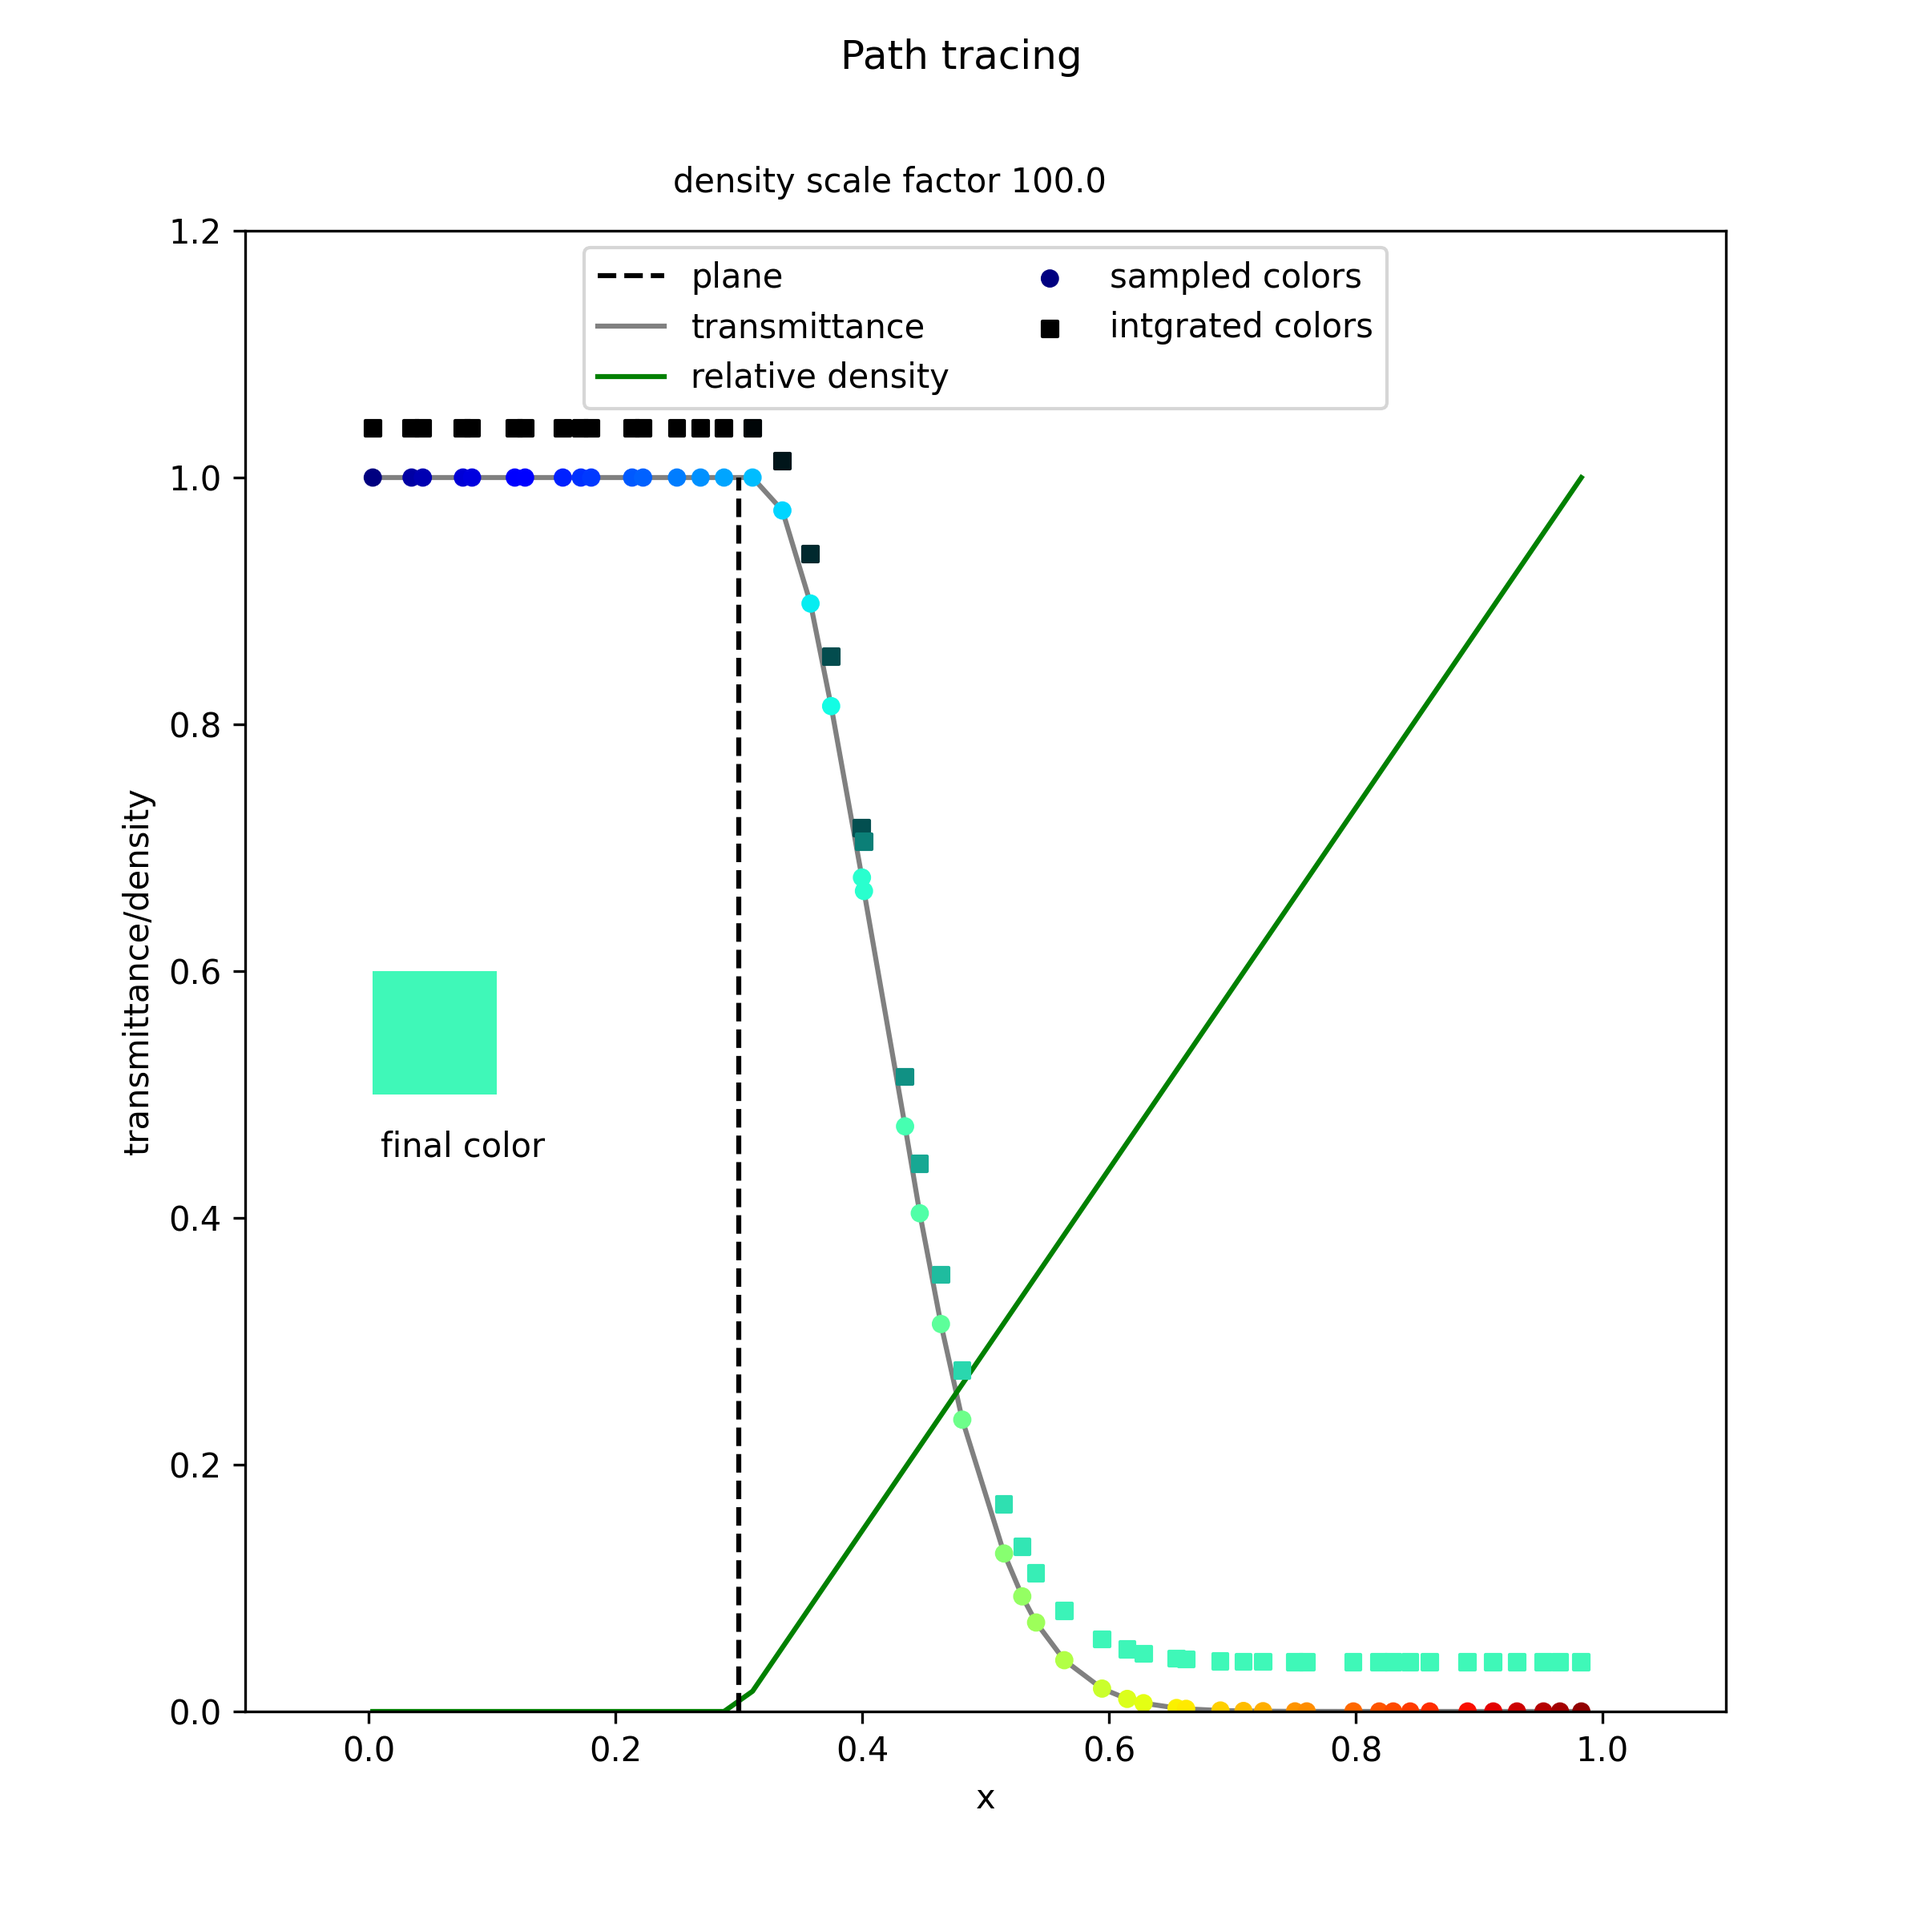
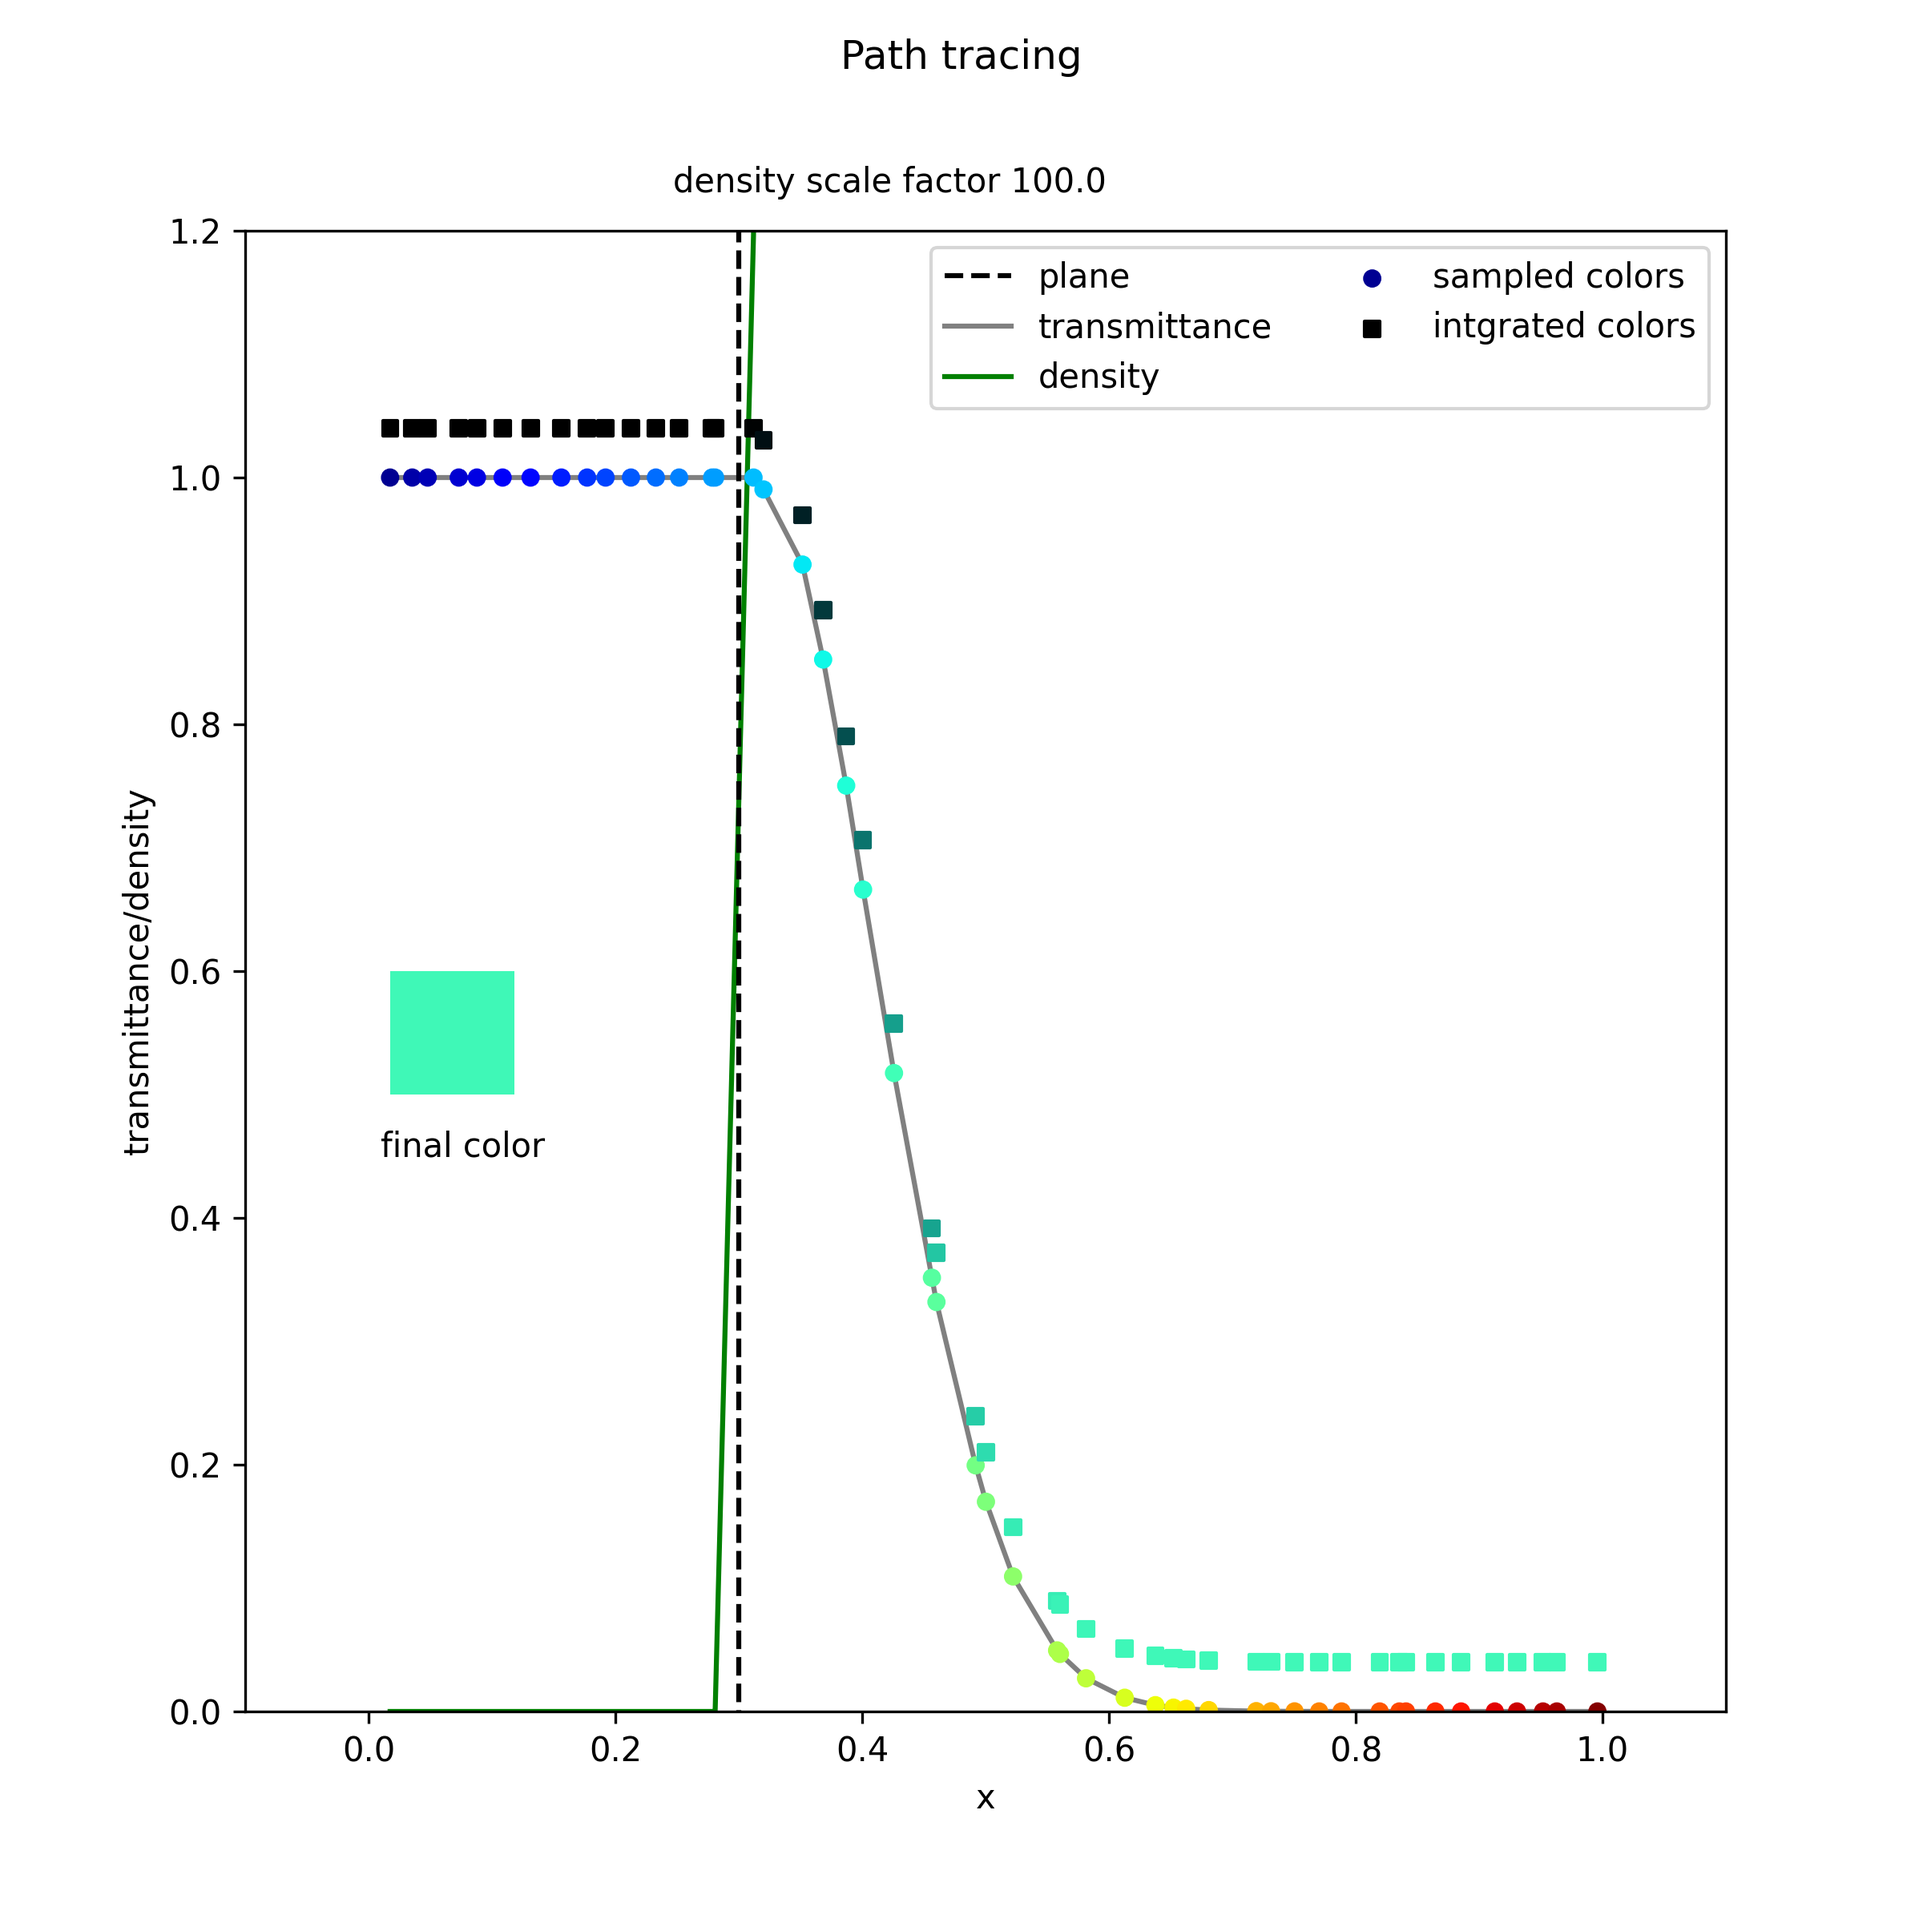
integrate_paths now takes a T+1 ts parameter

diff --git a/torchngp/radiance.py b/torchngp/radiance.py
@@ -18,7 +18,6 @@ def integrate_path(
     color: torch.Tensor,
     sigma: torch.Tensor,
     ts: torch.Tensor,
-    tfar: torch.Tensor,
     initial_transmittance: Union[torch.Tensor, float] = 1.0,
 ) -> tuple[torch.Tensor, torch.Tensor, torch.Tensor]:
     """Integrates the color integral for multiple rays.
@@ -31,8 +30,8 @@ def integrate_path(
     Params:
         color: (T,N,...,C) color samples C for (N,...) rays at steps (T,).
         sigma: (T,N,...,1) volume density for each ray (N,...) and step (T,).
-        ts: (T,N,...,1) parametric ray step parameters
-        tfar: (N,...,1) ray end values
+        ts: (T+1,N,...,1) parametric ray time step values. We need one more than
+            actual samples to be computed. Usually this is set to ray tfar.
         initial_transmittance: (N,...,1) optional initial transmittance values.
             Defaults to 1.0 if not specified.
 
@@ -48,11 +47,13 @@ def integrate_path(
     """
 
     # delta[i] is defined as the segment lengths between ts[i+1] and ts[i]
-    delta = ts[1:] - ts[:-1]  # (T-1,N,...,1)
-    delta = torch.cat((delta, tfar.unsqueeze(0)), 0)  # (T,N,...,1)
+    delta = ts[1:] - ts[:-1]  # (T+1,N,...,1) -> (T,N,...,1)
 
     # Alpha values (T,N,...,1)
-    sigma_mul_delta = sigma * delta
+    # Eps is necessary because in testing sigma is often inf and if delta
+    # is zero then 0.0*float('inf')=nan
+    eps = torch.finfo(delta.dtype).eps
+    sigma_mul_delta = sigma * (delta + eps)
     sample_alpha = 1.0 - (-sigma_mul_delta).exp()
 
     # Accumulated transmittance - this is an exclusive cumsum

diff --git a/scripts/visualize_path_tracing.py b/scripts/visualize_path_tracing.py
@@ -27,21 +27,21 @@ def plot_density_scale(ds, show=True):
     density[~mask] *= ds
 
     out_color, out_transm, out_alpha = radiance.integrate_path(
-        color[..., :3], density, ts, tfar
+        color[..., :3], density, torch.cat((ts, tfar.unsqueeze(0)), 0)
     )
     fig, ax = plt.subplots(figsize=(8, 8))
     fig.text(0.35, 0.9, f"density scale factor {ds:.1f}")
     ax.vlines(
-        plane_o[0], 0.0, 1.0, colors="k", linestyles="--", zorder=3, label="plane"
+        plane_o[0], -0.1, 1.3, colors="k", linestyles="--", zorder=3, label="plane"
     )
 
     shifted_ts = ts[:, 0] - tnear[0, 0]
     ax.plot(shifted_ts, out_transm[:, 0], c="gray", label="transmittance")
     ax.plot(
         shifted_ts,
-        density[:, 0] / density.max(),
+        density[:, 0],
         c="g",
-        label="relative density",
+        label="density",
     )
 
     ax.imshow(
@@ -74,7 +74,7 @@ def plot_density_scale(ds, show=True):
     plt.ylim(0.0, 1.2)
     plt.suptitle("Path tracing")
 
-    plt.legend(loc="upper center", ncols=2)
+    plt.legend(loc="upper right", ncols=2)
     plt.savefig(f"etc/path_tracing_{ds}.png", dpi=300)
 
     return fig
@@ -83,6 +83,7 @@ def plot_density_scale(ds, show=True):
 def main():
     fig = plot_density_scale(10)
     fig2 = plot_density_scale(100)
+    fig3 = plot_density_scale(float("inf"))
 
     plt.show()
 

diff --git a/torchngp/tests/test_radiance.py b/torchngp/tests/test_radiance.py
@@ -57,9 +57,10 @@ def test_radiance_integrate_path():
         cmap="gray",
     )
 
+    ts_padded = torch.cat((ts, torch.tensor(1.0).view(1, 1, 1)), 0)
     color, density = rf(xyz)
     out_colors, transmittance, alpha = radiance.integrate_path(
-        color, density, ts, torch.tensor([[1.0]])
+        color, density, ts_padded
     )
     assert_close(out_colors[-1], torch.tensor([[0.2, 0.2, 0.2]]))
 
@@ -72,8 +73,9 @@ def test_radiance_integrate_path():
     )
     color, density = rf(xyz)
     out_colors, transmittance, alpha = radiance.integrate_path(
-        color, density, ts, torch.tensor([[1.0]])
+        color, density, ts_padded, 0
     )
+
     assert ((out_colors[-1] > 0.5) & (out_colors[-1] < 0.6)).all()
 
 

diff --git a/torchngp/rendering.py b/torchngp/rendering.py
@@ -44,9 +44,9 @@ def render_volume_stratified(
     # Predict radiance properties
     color, sigma = radiance_field(xyz)
 
-    # (T,N,...,C) -> (T,N,...,C)
+    # Integrate colors along rays
     integ_color, integ_transm, sample_alpha = radiance.integrate_path(
-        color, sigma, ray_ts, ray_tfar
+        color, sigma, torch.cat((ray_ts, ray_tfar.unsqueeze(0)), 0)
     )
 
     # TODO: the following is not quite correct, should be 1.0 - T(i)*alpha(i)
